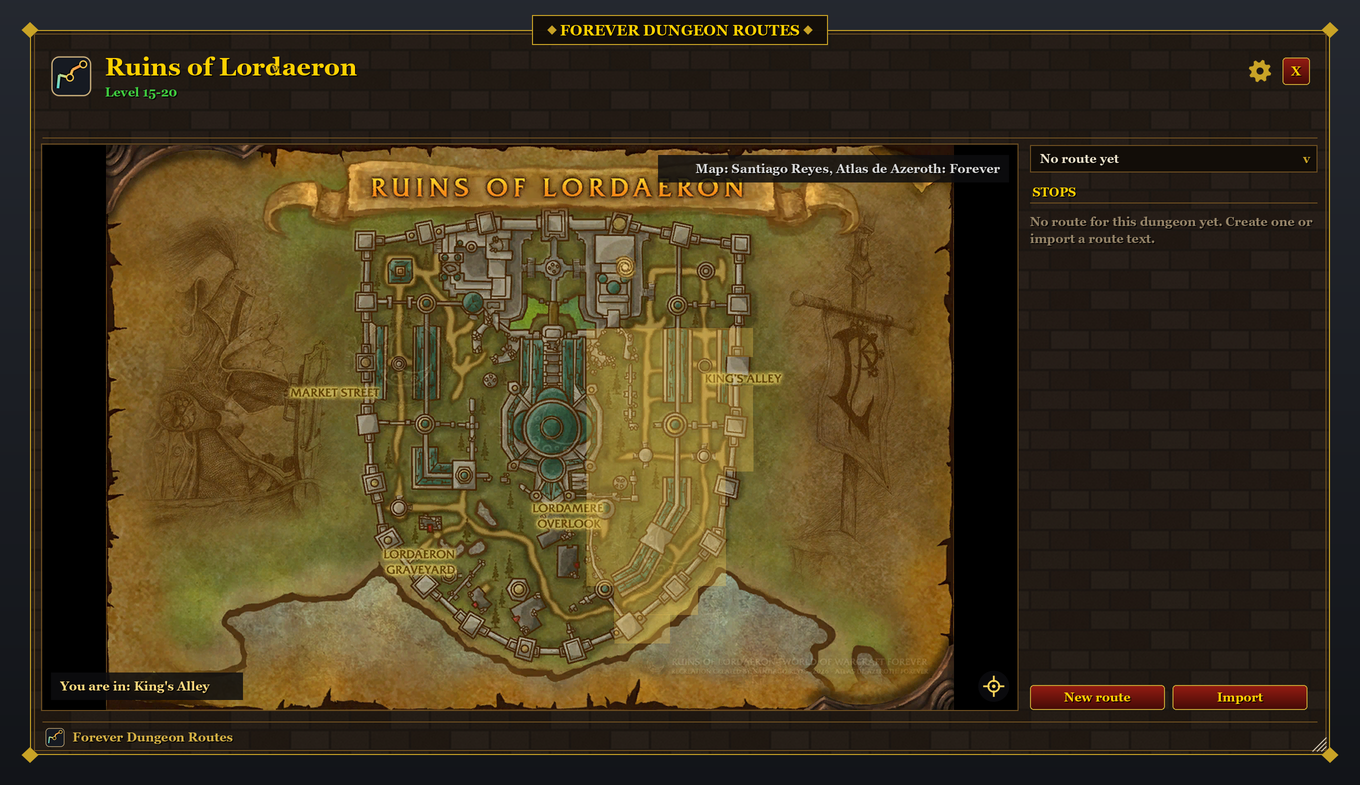
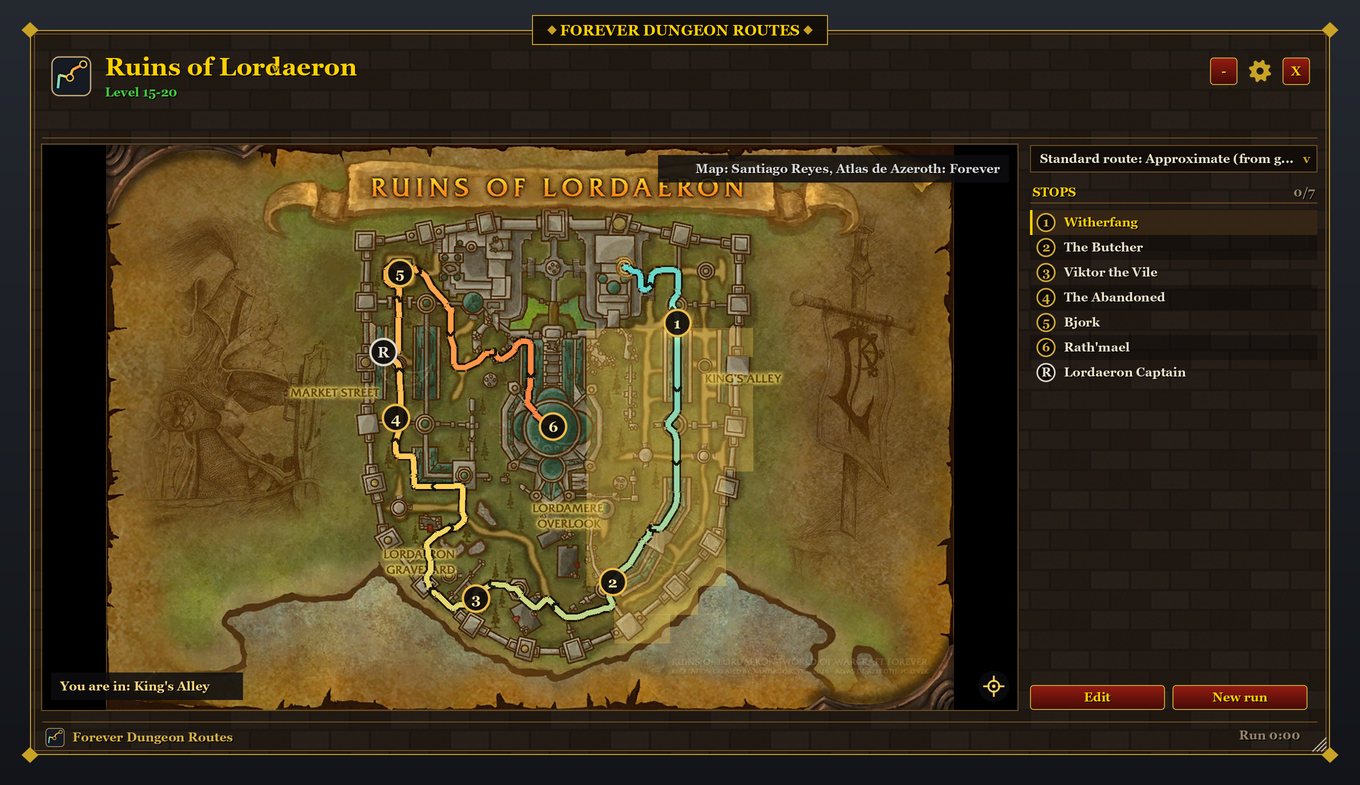
1.0.3: rough routes for the four new dungeons

diff --git a/README.md b/README.md
@@ -1,7 +1,8 @@
 # Forever Dungeon Routes
 
 A dungeon map with routes for **World of Warcraft: Forever**, for all 29 dungeons and the 7 raids:
-ready routes for the 25 classic dungeons and the 7 raids, maps by Santiago Reyes for the 4 new Forever dungeons,
+ready routes for the 25 classic dungeons and the 7 raids, maps by Santiago Reyes and rough routes for the 4 new
+Forever dungeons,
 boss order and notes, bosses that tick themselves off, an editor for your own routes in the spirit of
 Mythic Dungeon Tools, and a route list where players put up their routes for everyone.
 
@@ -14,8 +15,10 @@ Mythic Dungeon Tools, and a route list where players put up their routes for eve
 | ![Blackrock Depths, Shadowforge City, The Grim Guzzler lit up, the small display above the window](docs/screenshots/room.png) | ![Scholomance with the question whether to take over a route](docs/screenshots/share.png) |
 | **Scholomance: blue squares lead to the other map levels** | **German game client** |
 | ![Scholomance, The Upper Study](docs/screenshots/scholomance.png) | ![The Deadmines with German texts (Todesminen)](docs/screenshots/german.png) |
-| **New in WoW: Forever: Ruins of Lordaeron, map by Santiago Reyes** | **The Hall of Thanes, map by Santiago Reyes** |
-| ![Ruins of Lordaeron on the map by Santiago Reyes (Atlas de Azeroth: Forever), King's Alley lit up, no route yet](docs/screenshots/new-lordaeron.png) | ![The Hall of Thanes on the map by Santiago Reyes (Atlas de Azeroth: Forever)](docs/screenshots/new-thanes.png) |
+| **New in WoW: Forever: Ruins of Lordaeron, map by Santiago Reyes, rough route from guide texts** | **The Hall of Thanes with its rough route** |
+| ![Ruins of Lordaeron on the map by Santiago Reyes (Atlas de Azeroth: Forever) with the rough route Approximate (from guides), King's Alley lit up](docs/screenshots/new-lordaeron.png) | ![The Hall of Thanes on the map by Santiago Reyes (Atlas de Azeroth: Forever) with the rough route, Infurnus on the side path](docs/screenshots/new-thanes.png) |
+| **City of Dalaran: the rough route over two levels, three bosses down** | **The small map when you enter a dungeon** |
+| ![City of Dalaran on the map by Santiago Reyes with the rough route, Atrexis, Arcane Anomaly and Mana Devourer ticked off, Arcanic Enigma as an optional stop](docs/screenshots/new-dalaran.png) | ![The small map in the Deadmines, slightly transparent at the edge of the screen, with + and X](docs/screenshots/small-map.png) |
 | **Or from the game's own minimap pictures (gear button)** | **The Hall of Thanes from the minimap pictures** |
 | ![Ruins of Lordaeron from the game's minimap pictures, King's Alley lit up](docs/screenshots/new-lordaeron-minimap.png) | ![The Hall of Thanes from the game's minimap pictures, Anvilmar's Rest lit up](docs/screenshots/new-thanes-minimap.png) |
 | **The other window styles (gear button): Dark** | **Parchment** |
@@ -39,8 +42,12 @@ replace them.
 - The four new dungeons of WoW: Forever (The Hall of Thanes, Ruins of Lordaeron, Excavation Site:
   Wetlands, City of Dalaran): the game has no map art for them, so the addon shows the maps of
   Santiago Reyes (Atlas de Azeroth: Forever), used with his permission; City of Dalaran with the
-  Underbelly as a second map level. Their rooms light up and their bosses tick themselves off;
-  standard routes for them follow, until then draw your own.
+  Underbelly as a second map level. Their rooms light up and their bosses tick themselves off.
+  Each has a rough standard route, "Approximate (from guides)": where the bosses stand comes from
+  the texts of written guides (Icy Veins), the order from the game's boss list, and the paths follow
+  the floors on Santiago's maps. The places are approximate, and every stop says what is known about
+  it. Bosses no guide places yet are not on the route: Highland Horror (Excavation Site), Mana
+  Elemental, Mana Wraith and Lyn the Ignored (City of Dalaran).
 - All seven raids (Molten Core to Naxxramas): the game's map art, rooms and areas, bosses that tick
   themselves off, and standard routes from the entrance from boss to boss over the walkable floors;
   Zul'Gurub and Ahn'Qiraj with two each ("Full clear" and "Efficient"). In the dungeon list they sit
@@ -175,8 +182,8 @@ Razorfen Kraul, Gnomeregan, Scarlet Monastery (Graveyard, Library, Armory, Cathe
 Razorfen Downs, Uldaman, Zul'Farrak, Maraudon, Sunken Temple, Blackrock Depths,
 Lower and Upper Blackrock Spire, Dire Maul (East, West, North), Scholomance, Stratholme.
 
-Without a standard route yet (map, rooms and bosses are there): The Hall of Thanes, Ruins of
-Lordaeron, Excavation Site: Wetlands, City of Dalaran.
+With a rough route from guide texts ("Approximate (from guides)", places approximate): The Hall of
+Thanes, Ruins of Lordaeron, Excavation Site: Wetlands, City of Dalaran.
 
 Raids: Molten Core, Onyxia's Lair, Blackwing Lair, Naxxramas (in the order of the game's dungeon
 journal: Arachnid, Plague, Military and Construct Quarter), and with "Full clear" and "Efficient"
@@ -227,6 +234,13 @@ files, around lava and deep water.
 The maps of the four new Forever dungeons and of the Underbelly of Dalaran are by Santiago Reyes,
 from his [Atlas de Azeroth: Forever](https://asguevara433.wixsite.com/srmaps), used with his permission in the
 versions with his watermark.
+
+The rough routes of the four new dungeons place the bosses after the boss sections of the Icy Veins
+guides ([The Hall of Thanes](https://www.icy-veins.com/wow-forever/hall-of-thanes-guide),
+[Ruins of Lordaeron](https://www.icy-veins.com/wow-forever/ruins-of-lordaeron-guide),
+[Excavation Site: Wetlands](https://www.icy-veins.com/wow-forever/excavation-site-wetlands-guide),
+[City of Dalaran](https://www.icy-veins.com/wow-forever/city-of-dalaran-guide)): only what their
+texts say about the places was used, no map or route from them.
 
 ## License
 

diff --git a/CHANGELOG.md b/CHANGELOG.md
@@ -1,5 +1,22 @@
 # Changelog
 
+## 1.0.3
+
+- The four new dungeons have rough standard routes, "Approximate (from guides)": where the bosses
+  stand comes from the texts of written guides (Icy Veins), the order from the game's boss list, and
+  the paths follow the floors on the maps of Santiago Reyes. The places are approximate, and every
+  stop says what is known about it. Bosses no guide places yet are not on the route: Highland Horror
+  (Excavation Site), Mana Elemental, Mana Wraith and Lyn the Ignored (City of Dalaran).
+  - The Hall of Thanes: Faldrim Anvilmar, Infurnus on a side path (place inferred, not confirmed),
+    Plunder, Durgen Dirgehammer.
+  - Ruins of Lordaeron: from King's Alley through the south and the west to Rath'mael in the middle;
+    the Lordaeron Captain (rare, Horde only) is marked.
+  - Excavation Site: Wetlands: Saltspine on the lake, Shadetooth, Relic Guardian.
+  - City of Dalaran: Atrexis in the Underbelly first, then Krasus' Landing, the Violet Hold, the
+    middle of the city, the north end and the Violet Citadel. Arcanic Enigma, named in a guide but
+    not in the game's boss list, is an optional stop and does not hold up the run.
+- City of Dalaran now opens on the Underbelly, where the first boss of the route stands.
+
 ## 1.0.2
 
 - The small map can be resized: drag the grip in its lower right corner (at least 200 x 150). Size
